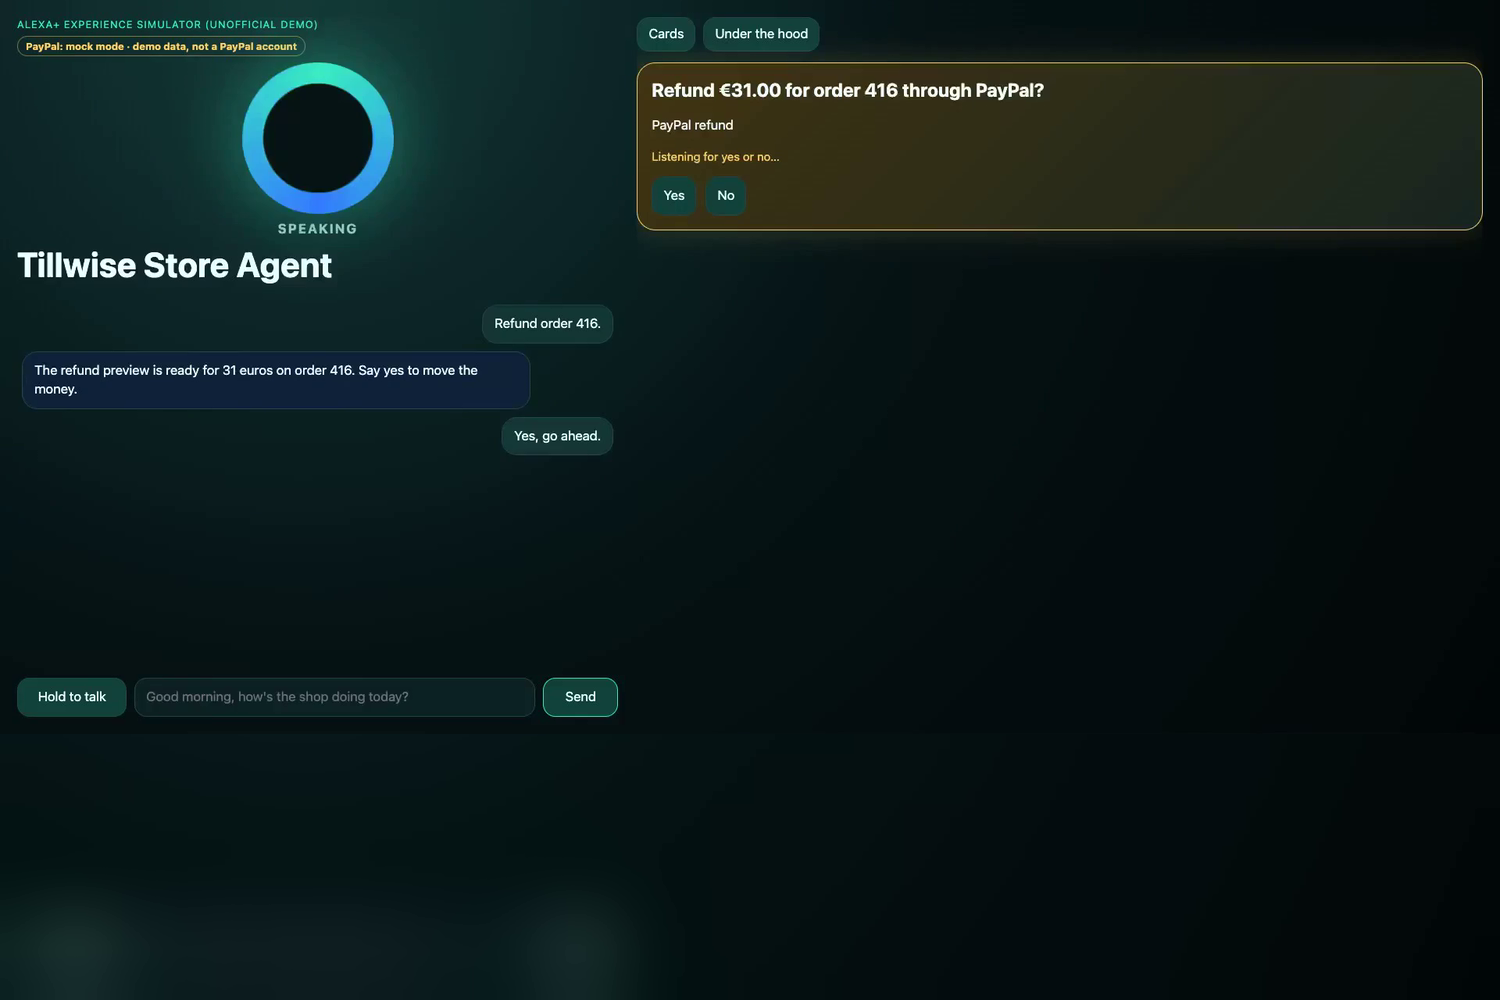
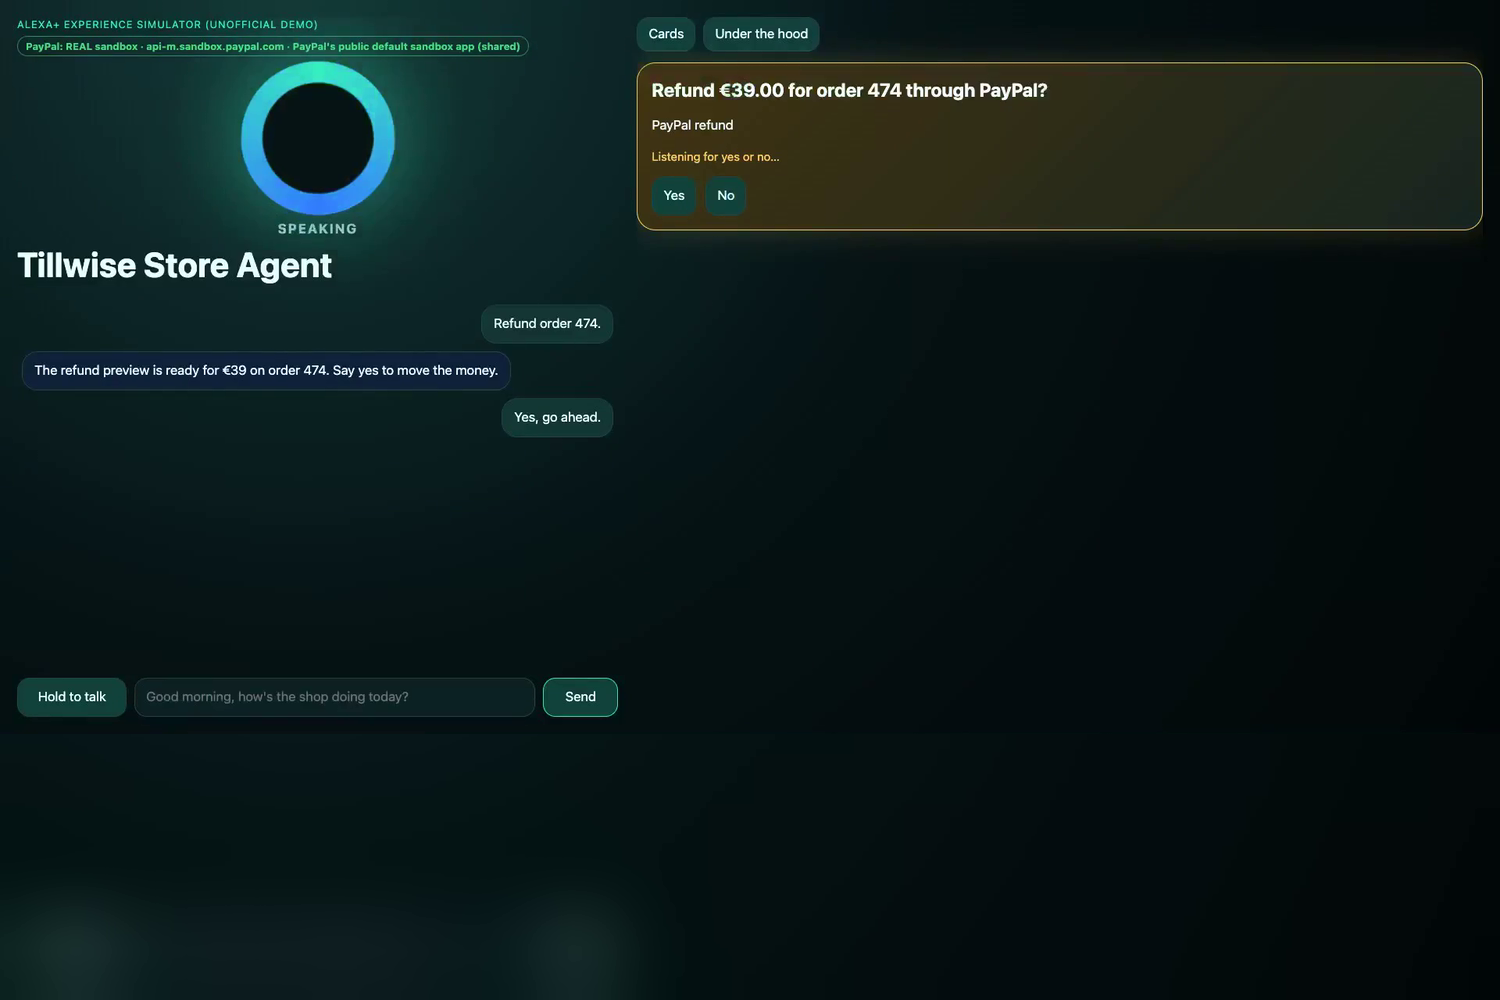
M5: sandbox take 1 record (rejected), YouTube upload section, chapters helper, sandbox gallery
- docs/VIDEO_RENDER.md: take 1 facts (md5, ffprobe, checks, calls) and why it was rejected
- docs/DEVPOST.md: planned repo URL, YouTube upload section (title, description, provisional chapters,
  Made for kids: No, Public, thumbnail), commits up to d27eb7d
- video/scripts/chapters.js (+ test): chapters from the compose timeline with YouTube's rules
- docs/devpost: gallery + thumbnail regenerated in sandbox mode
- FACTS §8: M5 calls (25, total 121/250), money-moving ids and debug ids
- README: clone URL

diff --git a/video/scripts/chapters.js b/video/scripts/chapters.js
@@ -1,0 +1,40 @@
+// YouTube chapters from a composed video's timeline, so the upload text is computed, not typed by hand.
+// Usage: node scripts/chapters.js --timeline out/<video>.timeline.json --scene scenes/<scene>.json
+// The scene lists chapters as { "title", "startsWith" }: each chapter starts at the timeline entry whose text starts
+// with `startsWith` (the first chapter is always 0:00). Times are rounded down to whole seconds.
+// YouTube's rules (support.google.com/youtube/answer/9884579): first timestamp 00:00, at least three timestamps in
+// ascending order, each chapter at least 10 seconds long.
+import fs from 'node:fs';
+import { pathToFileURL } from 'node:url';
+import { parseArgs } from './common.js';
+
+export function formatTime(seconds) {
+  const s = Math.floor(seconds);
+  return `${String(Math.floor(s / 60)).padStart(2, '0')}:${String(s % 60).padStart(2, '0')}`;
+}
+
+export function computeChapters(timeline, durationSeconds, chapters) {
+  if (!Array.isArray(chapters) || chapters.length < 3) throw new Error('Need at least three chapters.');
+  const rows = chapters.map((c, i) => {
+    if (i === 0) return { title: c.title, start: 0 };
+    const hit = timeline.find((t) => String(t.text || '').startsWith(c.startsWith));
+    if (!hit) throw new Error(`No timeline entry starts with "${c.startsWith}" (chapter "${c.title}").`);
+    return { title: c.title, start: Math.floor(hit.start) };
+  });
+  for (let i = 0; i < rows.length; i++) {
+    const end = i + 1 < rows.length ? rows[i + 1].start : durationSeconds;
+    if (i > 0 && rows[i].start <= rows[i - 1].start) throw new Error(`Chapter "${rows[i].title}" is not after "${rows[i - 1].title}".`);
+    if (end - rows[i].start < 10) throw new Error(`Chapter "${rows[i].title}" is ${(end - rows[i].start).toFixed(1)} s; YouTube needs at least 10 s.`);
+    rows[i].length = Number((end - rows[i].start).toFixed(1));
+  }
+  return rows;
+}
+
+if (import.meta.url === pathToFileURL(process.argv[1]).href) {
+  const args = parseArgs();
+  const report = JSON.parse(fs.readFileSync(String(args.timeline), 'utf8'));
+  const scene = JSON.parse(fs.readFileSync(String(args.scene), 'utf8'));
+  const rows = computeChapters(report.timeline, report.durationSeconds, scene.chapters);
+  for (const r of rows) console.log(`${formatTime(r.start)} ${r.title}`);
+  console.error(`(${rows.length} chapters; shortest ${Math.min(...rows.map((r) => r.length))} s; video ${report.durationSeconds} s)`);
+}

diff --git a/video/test/chapters.test.js b/video/test/chapters.test.js
@@ -1,0 +1,28 @@
+import test from 'node:test';
+import assert from 'node:assert/strict';
+import { computeChapters, formatTime } from '../scripts/chapters.js';
+
+const timeline = [
+  { start: 4.38, text: 'If you run a small WooCommerce shop on …' },
+  { start: 26.81, text: 'Refund order 474.' },
+  { start: 44.75, text: 'Money never moves on a guess. The refun…' },
+  { start: 97.22, text: 'This is the Money Desk, built inside AG…' },
+];
+const chapters = [
+  { title: 'Intro', startsWith: '' },
+  { title: 'Refund', startsWith: 'Refund order' },
+  { title: 'Gate', startsWith: 'Money never moves' },
+  { title: 'Desk', startsWith: 'This is the Money Desk' },
+];
+
+test('chapters: first is 0:00, the rest start at their timeline entry, rounded down', () => {
+  const rows = computeChapters(timeline, 171.6, chapters);
+  assert.deepEqual(rows.map((r) => [formatTime(r.start), r.title]), [['00:00', 'Intro'], ['00:26', 'Refund'], ['00:44', 'Gate'], ['01:37', 'Desk']]);
+  assert.equal(rows.at(-1).length, 74.6);
+});
+
+test('chapters: YouTube rules are enforced (10 s minimum, at least three, every anchor found)', () => {
+  assert.throws(() => computeChapters(timeline, 105, chapters), /at least 10 s/);
+  assert.throws(() => computeChapters(timeline, 171.6, chapters.slice(0, 2)), /at least three/);
+  assert.throws(() => computeChapters(timeline, 171.6, [...chapters, { title: 'X', startsWith: 'Nope' }]), /No timeline entry/);
+});

diff --git a/docs/DEVPOST.md b/docs/DEVPOST.md
@@ -8,8 +8,8 @@ Required by the rules, and where each is covered:
 | --- | --- |
 | Text description of features and functionality | "What it does", "How we built it" |
 | A functional demo that judges can run | "Try it out" and the README "Judge quick start" |
-| A public repo with a detectable open-source licence | `LICENSE` (GNU GPL); repo URL still to fill in |
-| A video under 3 minutes on YouTube | Mock-mode render, 2:42 (`docs/VIDEO_RENDER.md`, script in `docs/VIDEO_SCRIPT.md`); YouTube URL still to fill in |
+| A public repo with a detectable open-source licence | `LICENSE` (GNU GPL v2); planned public repo https://github.com/dumplingdeveloper/tillwise-paypal-money-desk (not published yet) |
+| A video under 3 minutes on YouTube | Submission video: `video/out/money-desk-final-sandbox.mp4`, recorded on the real PayPal sandbox. **Not final yet:** take 1 (2026-10-27) was rejected, see `docs/VIDEO_RENDER.md` → "Sandbox take 1". Fallback: the mock-mode render, 2:42. YouTube URL still to fill in ("YouTube upload" below) |
 | For a project that existed before the Submission Period, an explanation of how it was significantly updated | "New vs existing" |
 | PayPal integration that is central, using the free sandbox | "PayPal integration", "Mock vs sandbox" |
 | Third-party tools used within their terms | "Built with" and "Licences" |
@@ -150,6 +150,16 @@ Built for the PayPal AI Hackathon, from `git log` (short hash, author date):
 | `ea94db7`, `9f5258a`, `d172e71`, `dedb7f5` | 2026-10-25 | Refund drill-down per day by reason, calendar-week dates, de-duplication of the "this week" tile |
 | `a96ba0d` | 2026-10-25 | Video script and scene |
 | `ccba904`, `9dcbaa3` | 2026-10-25 | Devpost draft; M3.1 evidence notes |
+| `0704c0d` | 2026-10-25 | Submission Period facts and AG Studio licence facts |
+| `71223ab`, `56dfb22` | 2026-10-25 | `npm run sandbox:seed`; sandbox facts, judge sandbox steps, provenance label |
+| `f3f2927` | 2026-10-25 | M3.1 live run (claude-sonnet-5), screenshots and evidence |
+| `cddc806`, `fd2c9a2`, `3c526c4` | 2026-10-25/26 | Outstanding-invoice view, chart legend, one shared ledger window, 14-day refunds table, PayPal mode badge |
+| `adc7c51` | 2026-10-26 | Plain-language host questions for PayPal apply tools |
+| `640e2f6`, `c6c037f`, `8fd0516`, `ba42b34`, `ab6150a`, `384d8d9`, `59fa7e7` | 2026-10-26 | Video pipeline: spoken currency, caption splitting, mock-mode renders, Devpost gallery |
+| `044b324` | 2026-10-26 | mcp e2e pinned to mock |
+| `3ffda79`, `7180693`, `2319ee1`, `210b844` | 2026-10-26 | Real PayPal sandbox: call counting, run tags, live activity grid, `LIVE_PAYPAL` voice-refund test, judge path A/B |
+| `3568bc9`, `de2d913`, `8c5e0c8` | 2026-10-26 | Sandbox video scene; Transaction Search facts |
+| `cf15710`, `159b2a6`, `d27eb7d` | 2026-10-27 | PayPal response/debug-id log; one sandbox activity cache per server (fixes a stale Money Desk after a voice refund); "Real PayPal sandbox" grid title |
 
 All PayPal code (`mcp-server/src/paypal/`, the PayPal abilities in the WordPress plugin) and all AG Studio code (`alexa-sim/public/money-desk*.js`, `alexa-sim/src/studioBridge.ts`, `alexa-sim/src/moneyDesk.ts`, `alexa-sim/src/paypalMcp.ts`) are new in this period.
 
@@ -180,15 +190,56 @@ Later commits (licence facts, sandbox seed, live evidence) are listed by `git lo
 TypeScript, Node.js, GitHub Copilot SDK, Model Context Protocol (`@modelcontextprotocol/sdk`), PayPal REST APIs and `@paypal/paypal-server-sdk` (sandbox), APIMatic PayPal SDK context plugin (reference), AG Studio 3 (AG Grid), WordPress Abilities API, WooCommerce, PHP, Docker, Playwright (tests).
 
 ## Try it out
-- Repo: **TODO, public URL** (the licence is GPL, `LICENSE` at the root).
+- Repo: https://github.com/dumplingdeveloper/tillwise-paypal-money-desk (planned public URL; not published yet; GPL v2, `LICENSE` at the root).
 - Setup and run: README → "Judge quick start" (mock by default; Copilot login or BYOK; ports 8098 / 3338 / 4179 by default).
-- Video: **TODO, YouTube URL**.
-  - The mock-mode render (2:42) is recorded in `docs/VIDEO_RENDER.md`; the script is in `docs/VIDEO_SCRIPT.md`.
-  - The video states on screen and in the narration that PayPal runs in mock mode.
-- Gallery images (3:2, real UI) and a 1280x720 thumbnail: `docs/devpost/` (made by `video/scripts/devpost-media.js`).
+- Video: **TODO, YouTube URL**. The submission video is `video/out/money-desk-final-sandbox.mp4` (real PayPal sandbox; see "YouTube upload" below).
+  - It is **not recorded yet**: sandbox take 1 was rejected (stale Money Desk grid, now fixed); `docs/VIDEO_RENDER.md` → "Sandbox take 1".
+  - Fallback: the mock-mode render (2:42), which says on screen and in the narration that PayPal runs in mock mode.
+- Gallery images (3:2, real UI) and a 1280x720 thumbnail: `docs/devpost/` (made by `video/scripts/devpost-media.js`, 2026-10-27). 01 and the thumbnail are a fresh capture of the Money Desk in sandbox mode ("Real PayPal sandbox" grid with the voice refund on top; analytics titled "· mock data"); 02–05 are frames of sandbox take 1 (voice confirmation, under the hood, the refund drill-down on the mock ledger).
 - Testing instructions for judges:
   - No PayPal account is needed in mock mode.
   - For the real sandbox, either `cd mcp-server && npm run sandbox:public-creds` (PayPal's public default sandbox credentials, a shared app) or their own app via `scripts/save-paypal-sandbox-creds.sh`. Then `npm run sandbox:smoke && npm run sandbox:seed && npm run sandbox:seed -- --link-woo <order>`. See README → "Use the real PayPal sandbox".
+
+## YouTube upload (ready to paste once the final take exists)
+Upload **after** the repo is published; the description links to it.
+
+| Field | Value |
+|---|---|
+| File | `video/out/money-desk-final-sandbox.mp4`, **not recorded yet** (take 1 rejected; `docs/VIDEO_RENDER.md` → "Sandbox take 1"). Fill in md5, bytes and duration from `docs/VIDEO_RENDER.md` after the final take. |
+| Title (94 characters) | `Tillwise × PayPal: talk to your shop, refunds on the real PayPal sandbox, AG Studio Money Desk` |
+| Thumbnail | `docs/devpost/youtube-thumbnail.png` (1280×720, 311,051 bytes, md5 `a4238f6c2f58999ce26783d62ea31cf9`) |
+| Audience | Made for kids: **No** |
+| Visibility | **Public** |
+
+Description (the first two lines carry the pitch; no `<` or `>` characters):
+
+```text
+Small WooCommerce shops on PayPal juggle refunds, disputes and unpaid invoices in separate screens, and one wrong refund costs real money.
+Tillwise is a store agent you talk to: it shows the numbers in an AG Studio Money Desk and moves money only after the owner says yes.
+
+Recorded on the real PayPal sandbox API (PayPal's public default sandbox credentials, no real money): the refund in this video is a real sandbox refund. The Money Desk analytics (refund rate, who still owes us, disputes, the refund drill-down) run on a labelled mock ledger. Both agents run on the GitHub Copilot SDK; the AG Studio agent is read-only. Silent waits are fast-forwarded where the on-screen badge says so. The Alexa+ experience simulator is an unofficial demo, not an Amazon product.
+
+Chapters
+00:00 Who it's for and the problem
+00:26 Voice refund on the real PayPal sandbox
+00:44 Preview first, then the owner's yes
+01:21 Under the hood
+01:37 The Money Desk in AG Studio
+02:01 Why are refunds spiking? (AG Studio AI panel)
+02:27 The Studio agent is read-only
+02:38 Recap
+
+Code (GPL v2): https://github.com/dumplingdeveloper/tillwise-paypal-money-desk
+Built for the PayPal AI Hackathon on Devpost.
+```
+
+The chapter times above are **provisional**: they are computed from sandbox take 1 (171.6 s), whose structure the final take
+keeps. After the final take, recompute them and paste the output:
+`cd video && node scripts/chapters.js --timeline out/money-desk-final-sandbox.timeline.json --scene scenes/m5-money-desk-sandbox.json`.
+The script takes each chapter's start from the compose timeline (`timeline[].start`, rounded down; the anchors are in the
+scene's `chapters`) and enforces YouTube's rules from https://support.google.com/youtube/answer/9884579: the first
+timestamp is 00:00, at least three timestamps in ascending order, each chapter at least 10 s. On take 1 the shortest
+chapter is 11 s ("The Studio agent is read-only").
 
 ## Licences and third-party terms
 - AG Studio's `package.json` says `"license": "Commercial"`. It is an npm dependency and is not vendored into this repo.

diff --git a/docs/VIDEO_RENDER.md b/docs/VIDEO_RENDER.md
@@ -1,3 +1,84 @@
+# Sandbox-mode video (2026-10-27): take 1 recorded and rejected; final take pending
+
+The submission video is to be `video/out/money-desk-final-sandbox.mp4`, recorded from `video/scenes/m5-money-desk-sandbox.json`
+on the **real PayPal sandbox** (PayPal's public default sandbox credentials, shared app `APP-80W284485P519543T`). The
+Money Desk analytics stay on the labelled mock ledger ("· mock data" on every analytics title).
+
+## Sandbox take 1 (rejected: do not upload)
+
+| | |
+| --- | --- |
+| File (gitignored) | `video/out/money-desk-sandbox-take1.mp4` (renamed from `money-desk-final-sandbox.mp4` once rejected) |
+| md5 | `0235199d1f3a2c23f8b83a2a6aba80f1` |
+| Size | 8,003,918 bytes |
+| ffprobe | duration 171.633333 s (2:51.6); video 1920×1080, 30 fps; audio stream present |
+| compose checks | `temporalChecks`: 105 checks, 0 failures; `pixelChecks`: 11, 0 failures; 4 silences fast-forwarded with the on-screen "⏩ fast-forward" badge (×2.23, ×1.48, ×1.15, ×2.83) |
+| Timeline | `video/out/money-desk-sandbox-take1.timeline.json` (also `.compose-report.json`, `.srt`) |
+| Frames | 17 frames at each scene start, the preview, both "yes", the host confirmation, the refund result, the hood, the Money Desk, the drill-down and the end card: `video/out/frames-sandbox-take1/` (gitignored, kept as evidence of the defect) |
+| Order | Woo order 474 (€39.00, Coffee Lover Gift Box), linked with `sandboxSeed.js --link-woo 474` |
+| PayPal | capture `3KH53287DG893982N` (order `2WA29940028880628`, debug id `ca514c40dcd01`); voice refund `7HT09013T9850053S` `COMPLETED` €39.00 (debug id `ca514ca736f24`); see `docs/FACTS_PAYPAL_SANDBOX.md` §8 |
+| Model calls | 8 of 12: 4 × `gpt-6-luna` (voice), 4 × `claude-sonnet-5` (Studio), counted from `assistant.message` events in `alexa-sim/.copilot-sdk-state/.state/events.jsonl` since 21:24:33Z. No retry. |
+| PayPal calls | 25 for the whole milestone (seed link 6, Money Desk/voice reads and the refund 19); running total 121 of 250 |
+| Power / courtesy | `pmset -g batt` "AC Power" before the recording (21:27Z) and before both compose runs; the entry-2 busy check was clear each time |
+
+**Why it was rejected (found by viewing the frames):**
+1. **Stale live grid (1:35–2:00).** The Money Desk's "LIVE PayPal sandbox" grid showed capture `3KH53287DG893982N` as
+   `COMPLETED` and no refund row, while the narration said "with the refund we just made at the top". Cause: each MCP
+   session had its own `PayPalService`, so the voice session's refund invalidated only its own activity cache, and
+   the Money Desk session kept the entry it read 3 minutes earlier (made worse by a 15-minute TTL set for the
+   recording). Fixed in `159b2a6`: one activity cache per MCP server, previews still per session; regression test in
+   `mcp-server/test/sandboxActivity.test.ts`. A fresh read afterwards shows refund `7HT09013T9850053S` on top and the
+   capture `REFUNDED` (`docs/devpost/01-money-desk.png`).
+2. **Hood narration claimed more than the hood shows** ("its audit row with PayPal's refund ID"). The scene now says
+   "every step is logged with its timing: the refund preview, the owner's voice confirmation, then the refund call to
+   the PayPal sandbox"; the refund id is shown by the Money Desk grid.
+3. "LIVE PayPal sandbox" could be read as PayPal's production environment ("Live"). The grid is now titled
+   "Real PayPal sandbox · objects Tillwise created" (`d27eb7d`), and the narration says "reads the real PayPal sandbox".
+
+Not done on purpose: no splicing of a re-recorded Money Desk segment into take 1, and no editing of the recorded
+manifest's narration. The final video should be one honest take.
+
+**What the final take needs:** one more full recording (about 4 voice + 4 Studio model calls). Only 4 of this
+milestone's 12 model calls are left, so it was **not** started. Everything else is ready: the scene (end card with the
+planned repo URL, `maxSilenceMs` 4000, corrected narration, `chapters`), the fix, and the commands below.
+
+Commands (take 1; the final take is the same with a new order id and the output copied to `money-desk-final-sandbox.*`):
+
+```bash
+cd mcp-server && set -a && . ./.env && set +a && PAYPAL_MODE=sandbox MCP_PORT=3338 TILLWISE_PAYPAL_CALL_LOG=<log> node dist/src/server.js &
+cd mcp-server && TILLWISE_PAYPAL_CALL_LOG=<log> node dist/src/sandboxSeed.js --link-woo 474
+cd alexa-sim && SIM_PORT=4189 EXPECTED_GITHUB_LOGIN=<login> TILLWISE_PAYPAL_CALL_LOG=<log> node dist/src/server.js &
+cd video && node scripts/resolve-scene.js --scene scenes/m5-money-desk-sandbox.json --order 474
+export HF_HOME=$PWD/.cache/hf TRANSFORMERS_CACHE=$PWD/.cache/hf
+caffeinate -i node scripts/tts.js --scene out/m5-money-desk-sandbox.resolved.json
+caffeinate -i node scripts/record.js --scene out/m5-money-desk-sandbox.resolved.json --url http://127.0.0.1:4189
+caffeinate -i node scripts/compose.js --scene out/m5-money-desk-sandbox.resolved.json
+node scripts/chapters.js --timeline out/<video>.timeline.json --scene scenes/m5-money-desk-sandbox.json
+```
+
+The first compose (scene `maxSilenceMs` 5000) stopped with "Demo is 175.233333s, not under 175s" (the pipeline's own
+margin under 3:00); with 4000 it gave 171.63 s. The order was picked with the WooCommerce REST API (completed, ≤ €100,
+no `_tillwise_paypal_refund_ids`), not with `scripts/demo-reset.sh`, because that script uses `docker compose exec` and
+this milestone allowed no Docker use.
+
+### Devpost media (2026-10-27)
+`node scripts/devpost-media.js --video out/money-desk-sandbox-take1.mp4 --url http://127.0.0.1:4189 --out ../docs/devpost --confirmAt 62 --hoodAt 90 --drillAt 138`
+
+| File | Size | md5 |
+| --- | --- | --- |
+| `01-money-desk.png` (1920×1280, fresh capture after the fix) | 328,230 | `16d61920548b8e0e8025b4ac7ffca219` |
+| `02-voice-refund-confirmation.png` (1500×1000) | 239,388 | `e4a1090f33bbdf826aa59a04f95c5d9d` |
+| `03-under-the-hood.png` (1500×1000) | 265,388 | `17b504f54d0b1212fc588c67e639d0be` |
+| `04-why-are-refunds-spiking.png` (1500×1000) | 569,660 | `5d70a6a19d02536f65077bfd62702403` |
+| `05-refunds-per-day-by-reason.png` (1500×1000) | 455,672 | `5cbd37efac6a23c150c4d7384148eb9e` |
+| `youtube-thumbnail.png` (1280×720) | 311,051 | `a4238f6c2f58999ce26783d62ea31cf9` |
+
+- Labels: 01 and the thumbnail show "Real PayPal sandbox · objects Tillwise created" with refund `7HT09013T9850053S` on top, and every analytics widget titled "· mock data"; 02/03 carry the voice-sim badge "PayPal: REAL sandbox · api-m.sandbox.paypal.com · PayPal's public default sandbox app (shared)"; 04/05 show the drill-down titled "· mock data" and the agent's text "Using the mock ledger".
+- Known inconsistency: 04/05 (take 1, 21:3xZ) quote a 35.2% refund rate, 01 (21:59Z) shows 34.9%. The mock ledger is anchored on the current time and gained one capture between the two.
+- **Power-gate deviation:** this step ran at 21:59Z although `pmset -g batt` printed "Battery Power" in the same command (the check and the step were chained, and the step did not stop on it). It was one Playwright capture and five single-frame ffmpeg extractions, no recording or render. No heavy step ran on battery after that.
+
+---
+
 # Demo video: render record (final mock-mode render)
 
 The final mock-mode video was rendered on 2026-10-26 with this repo's own `video/` pipeline from `video/scenes/m5-money-desk.json`. PayPal runs in **mock mode**.

diff --git a/docs/FACTS_PAYPAL_SANDBOX.md b/docs/FACTS_PAYPAL_SANDBOX.md
@@ -178,6 +178,26 @@ By endpoint (logged calls):
 | 2 | `GET /v2/payments/refunds/{id}` |
 | 1 | `POST /v2/invoicing/invoices/{id}/send` |
 
+**PayPal API calls for M5 (2026-10-27, sandbox video take 1):** **25**, all logged (requests in
+`paypal-calls.jsonl`; since `cf15710` every response is logged too, with HTTP status and the `paypal-debug-id`
+header, in `paypal-calls.responses.jsonl`). Running total: 96 + 25 = **121** of 250.
+
+| Calls | Source | Endpoint |
+| --- | --- | --- |
+| 1 + 4 | seed, MCP server | `POST /v1/oauth2/token` |
+| 3 + 12 | seed, MCP server | `GET /v2/checkout/orders/{id}` (seed rerun checks; Money Desk activity reads) |
+| 1 | seed | `POST /v2/invoicing/search-invoices` |
+| 2 | MCP server | `GET /v2/invoicing/invoices/{id}` |
+| 1 | seed `--link-woo 474` | `POST /v2/checkout/orders` → 201 |
+| 1 | MCP server (voice flow) | `POST /v2/payments/captures/{id}/refund` → 201 |
+
+Money-moving calls (ids from the seed output, the Woo order meta and the Money Desk grid; debug ids from the response log):
+
+| When (UTC) | Call | Result | PayPal ids | `paypal-debug-id` |
+| --- | --- | --- | --- | --- |
+| 2026-10-27 21:24:11 | `POST /v2/checkout/orders` (card capture, tag `TW-DEMO-FWFMVM-WOO-474-3900`) for Woo order 474 | 201, capture `COMPLETED` €39.00 | order `2WA29940028880628`, capture `3KH53287DG893982N` | `ca514c40dcd01` |
+| 2026-10-27 21:28:33 | `POST /v2/payments/captures/3KH53287DG893982N/refund` (voice: "Refund order 474" → preview → "Yes, go ahead" → host confirm "Yes") | 201, refund `COMPLETED` €39.00; the capture then reads `REFUNDED` | refund `7HT09013T9850053S` (Woo meta `_tillwise_paypal_refund_ids`) | `ca514ca736f24` |
+
 **Still unverified:**
 1. When our own captures become searchable in Transaction Search, and their T-codes. They were still absent 1 h 26 min after capture.
 2. Voice-flow invoice create/send, tracking and dispute accept against the real sandbox. They use the same client as the verified refund but were not run live.

diff --git a/README.md b/README.md
@@ -37,7 +37,7 @@ skills/ contains Agent Skills loaded by the Copilot SDK and exposed by the MCP s
 Needs Docker, Node 22 (`^20.19.0 || >=22.12.0` for the Copilot SDK) and Google Chrome. PayPal runs in **mock mode** by default (a deterministic ledger in `mcp-server/src/paypal/mockLedger.ts`); no PayPal account is needed.
 
 ```bash
-git clone <this repo> tillwise-paypal && cd tillwise-paypal
+git clone https://github.com/dumplingdeveloper/tillwise-paypal-money-desk.git tillwise-paypal && cd tillwise-paypal
 docker compose up -d --wait               # WordPress + WooCommerce on http://127.0.0.1:8098 (project "tillwise-paypal")
 ./scripts/seed-local.sh                   # installs WooCommerce, seeds the demo store, writes .env + mcp-server/.env
 (cd mcp-server && npm ci && npm run build)
